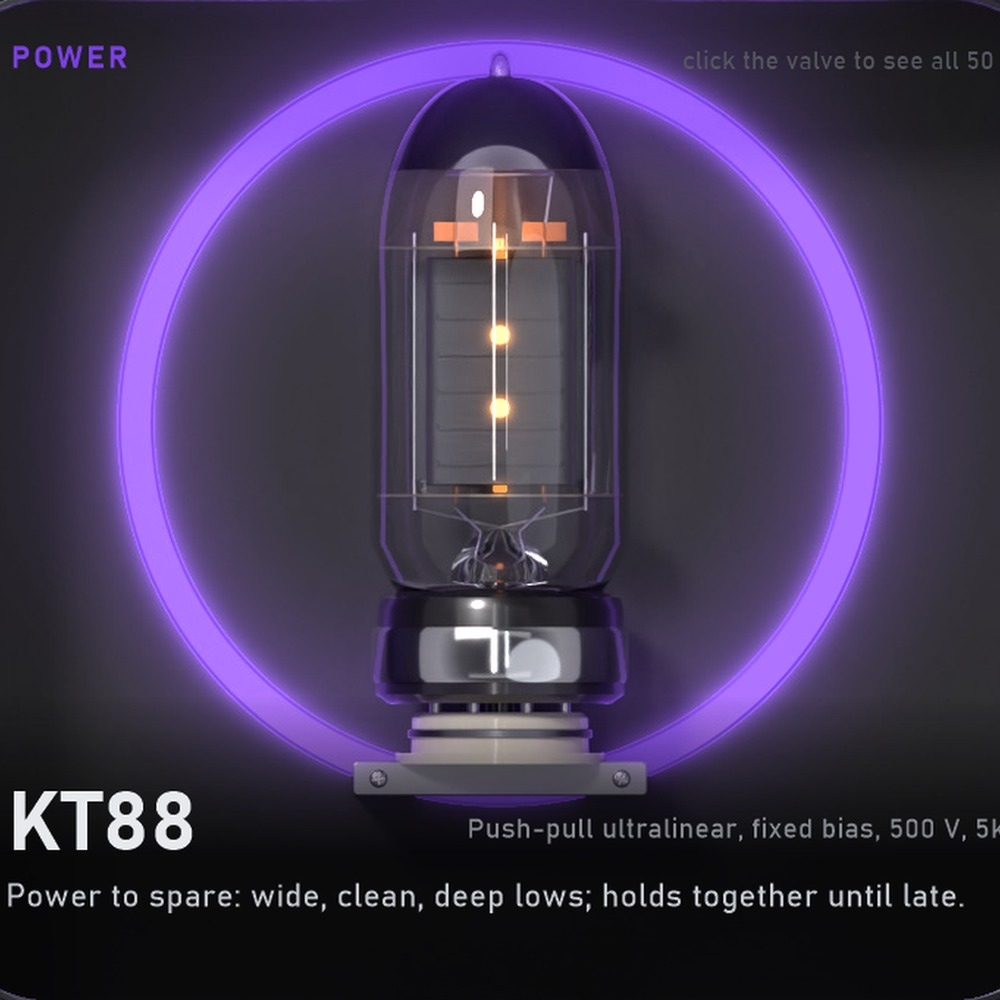
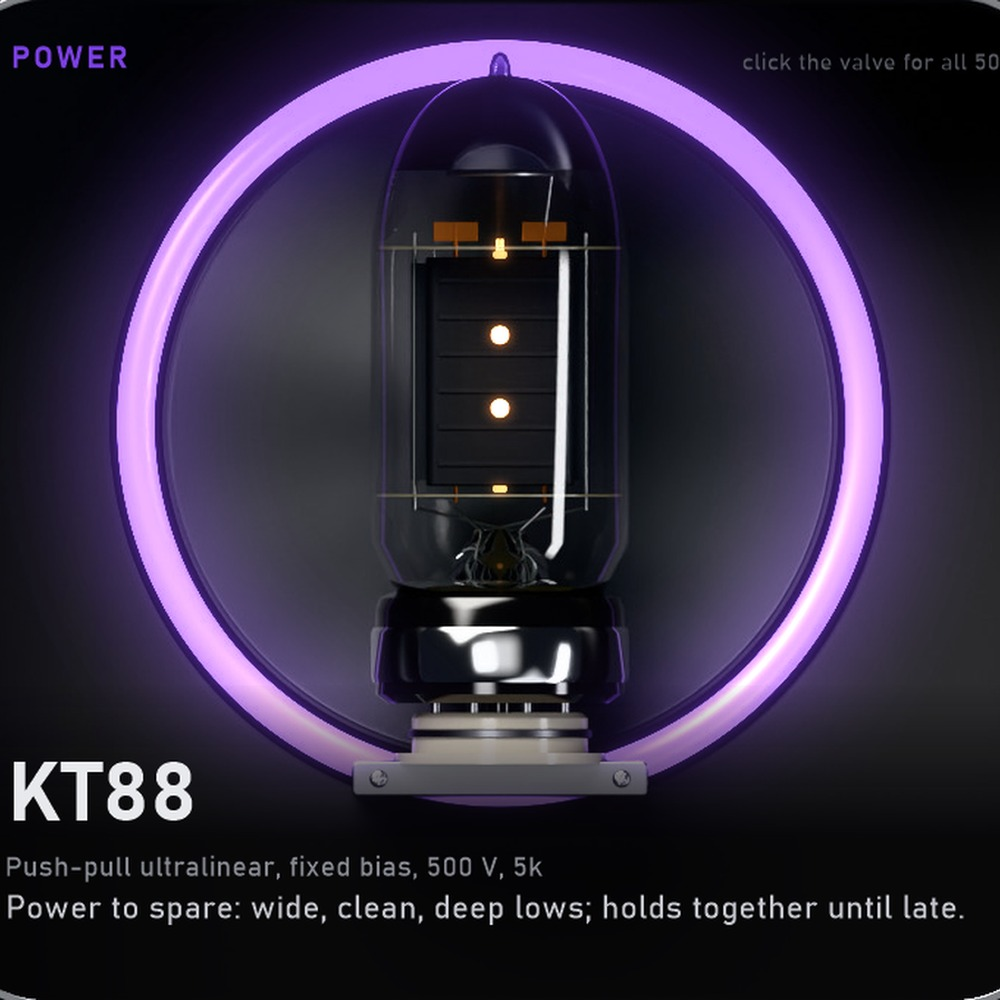
TUBE 50 1.2.0 pictures: the new look (website, store cover, thumbnail, Hub)

diff --git a/index.html b/index.html
@@ -526,11 +526,11 @@
             <p class="note" data-pay-note="tube50">One-time purchase. Use your Hub email at checkout, then install in Aphotic Hub.</p>
           </div>
           <div class="p-side">
-            <figure class="shot"><img src="img/tube50.jpg" width="1600" height="1000" loading="lazy" alt="TUBE 50 three times: a dark panel with a glass valve glowing inside a lit ring, three black knobs for drive, amount and tone, and the list of all fifty valves"></figure>
+            <figure class="shot"><img src="img/tube50.jpg" width="1600" height="1000" loading="lazy" alt="TUBE 50 three times: a dark panel with a glass valve glowing inside a lit ring, three knobs with aluminium caps for drive, amount and tone, and the list of all fifty valves"></figure>
             <dl class="specs">
               <dt>Latency</dt><dd>Zero</dd>
               <dt>Formats</dt><dd>Windows VST3 (64-bit). Not on Mac yet</dd>
-              <dt>Version</dt><dd><span data-version="tube50">1.0.0</span></dd>
+              <dt>Version</dt><dd><span data-version="tube50">1.2.0</span></dd>
               <dt>Computers</dt><dd>Up to 3 per license</dd>
             </dl>
             <p class="note">The valves are modelled from their published data sheets and the circuits are simulated; they are not measured copies of particular hardware.</p>
